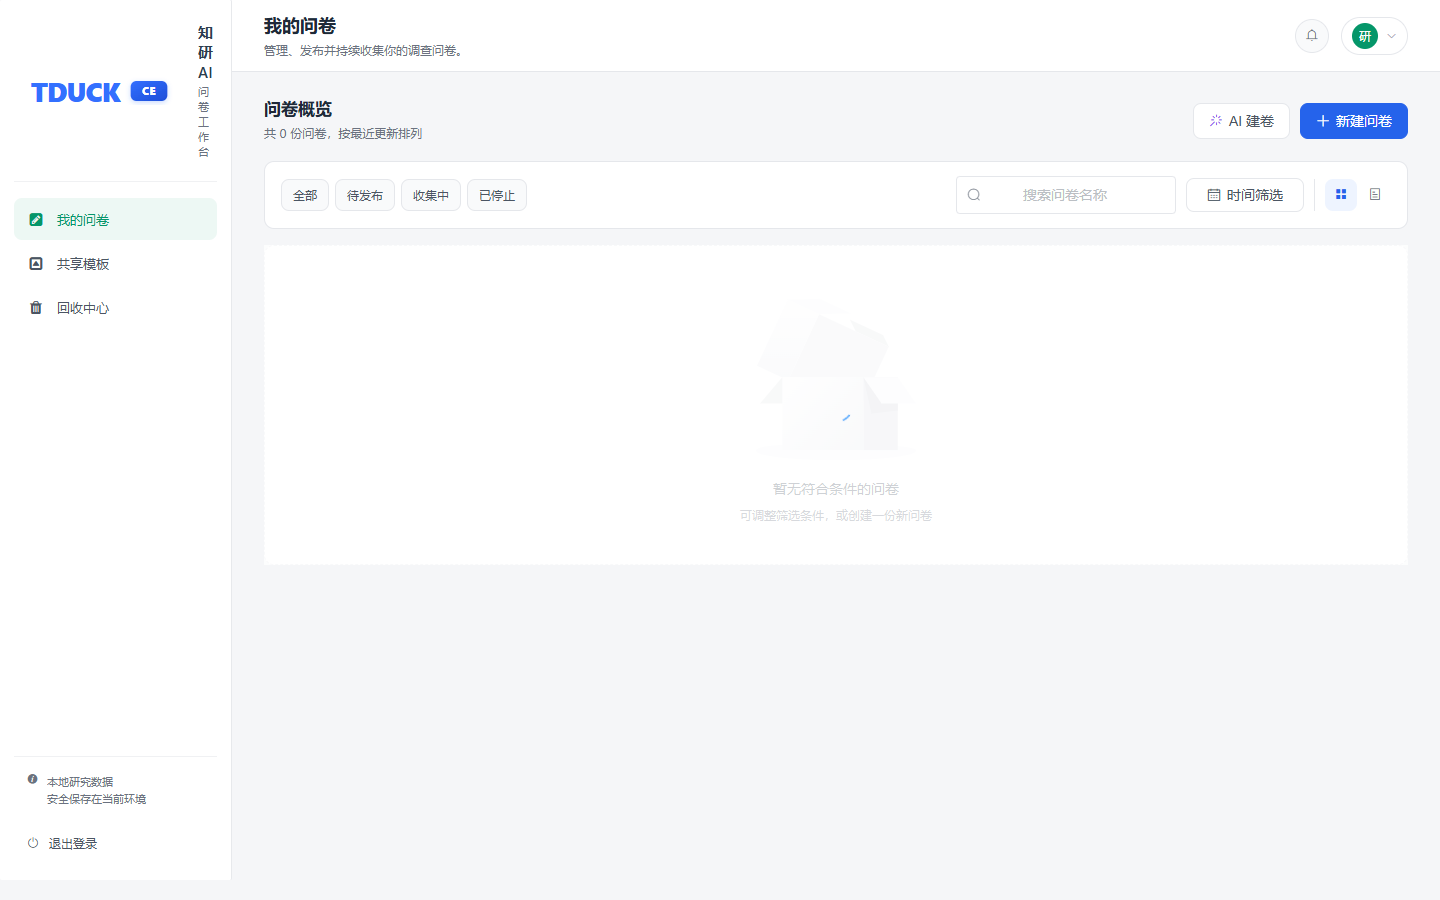
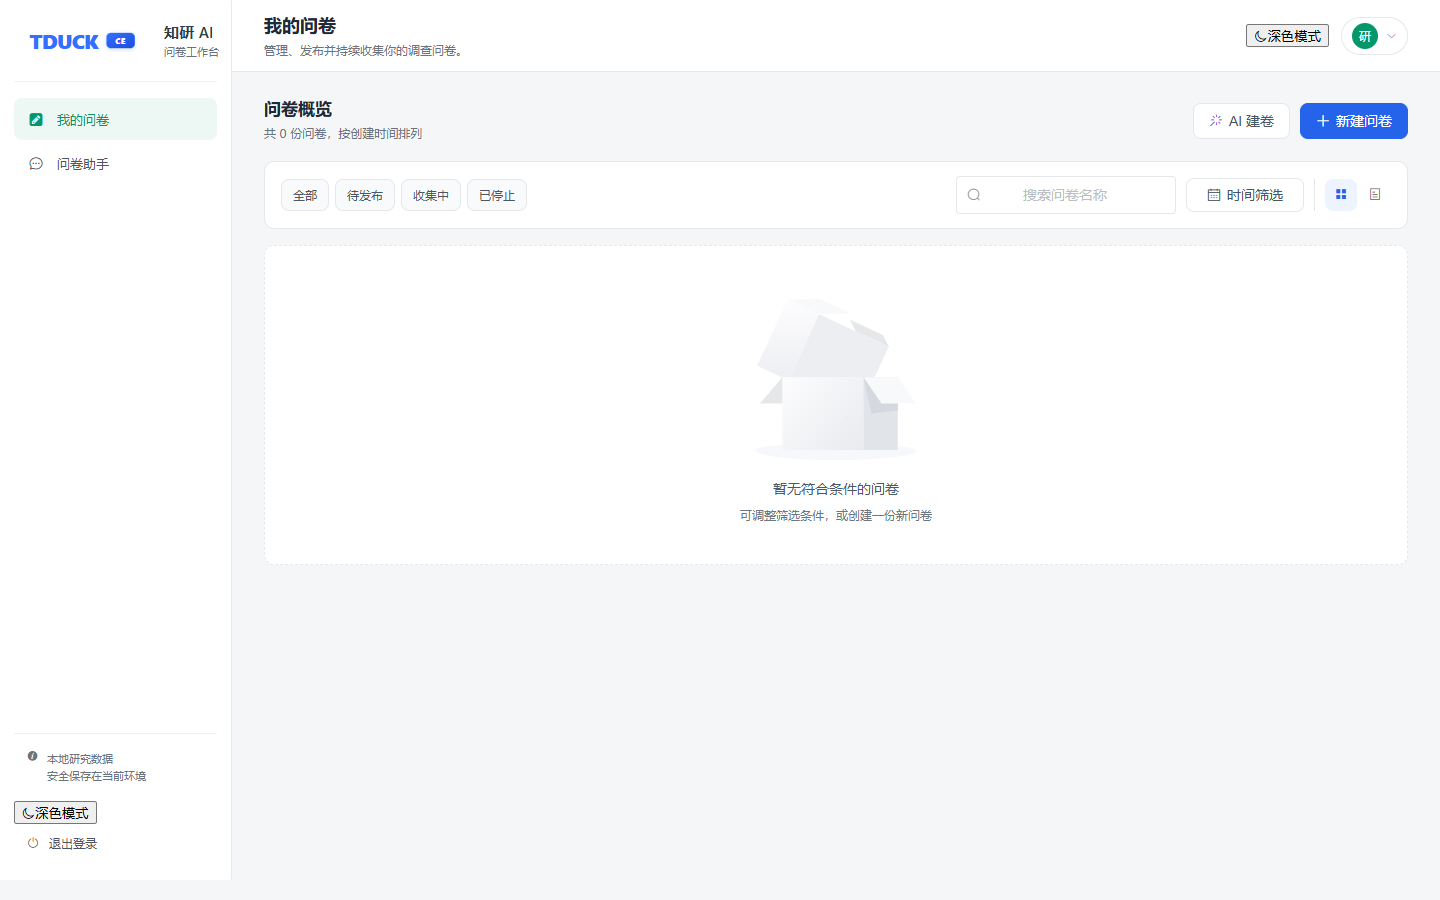
feat(tduck): add navy dark mode to survey workbench

diff --git a/tduck-vue3/src/td/assets/styles/workbench-dark.scss b/tduck-vue3/src/td/assets/styles/workbench-dark.scss
@@ -1,0 +1,143 @@
+// 藏蓝深色皮肤仅覆盖本轮已改造的明确容器，不修改其他页面或全局 Element Plus。
+.zy-dark {
+  body { background: var(--zy-page); }
+  .home-container .menu-box { background: #101c2e; }
+  .home-container .header-container { background: #111e31; }
+  .home-container .menu-item-active { color: var(--zy-accent) !important; background: #173137 !important; }
+  .home-container .menu-footer .theme-toggle-btn { color: #e6c76f; background: #252b35; border: 1px solid #343d4b; }
+  .home-container .logout-action-btn:hover { color: var(--zy-danger); background: #342633; }
+  .home-container .header-icon-btn { background: var(--zy-surface-subtle); }
+  .home-container .avatar-text { color: #a7f0d9; background: #164b48; }
+  .home-container .avatar-trigger-wrapper { background: var(--zy-surface-subtle); }
+  .home-logo-img { filter: brightness(0) invert(1); opacity: 0.9; }
+  .theme-toggle-btn {
+    display: flex;
+    gap: 10px;
+    align-items: center;
+    width: 100%;
+    min-height: 38px;
+    padding: 0 13px;
+    margin-bottom: 4px;
+    color: #e6c76f;
+    font-family: inherit;
+    font-size: 12px;
+    cursor: pointer;
+    background: #252b35;
+    border: 1px solid #343d4b;
+    border-radius: var(--zy-radius-sm);
+    &:hover { background: #2d3440; }
+  }
+  .header-theme-btn {
+    display: none;
+    gap: 6px;
+    align-items: center;
+    min-height: 32px;
+    padding: 0 9px;
+    color: #e6c76f;
+    font-family: inherit;
+    font-size: 11px;
+    cursor: pointer;
+    background: #252b35;
+    border: 1px solid #343d4b;
+    border-radius: var(--zy-radius-sm);
+  }
+  .project-page .status-filter-item,
+  .project-page .date-btn,
+  .project-page .view-switch,
+  .project-page .el-input__wrapper,
+  .project-page .el-input__inner,
+  .ai-draft-container .el-input__wrapper,
+  .ai-draft-container .el-input__inner,
+  .ai-draft-container .el-textarea__inner,
+  .ai-draft-container .el-input-number__decrease,
+  .ai-draft-container .el-input-number__increase {
+    color: var(--zy-text-regular);
+    background: var(--zy-surface-subtle);
+  }
+  .project-page .status-filter-item.active,
+  .project-page .date-btn.active,
+  .project-page .switch-btn.active { color: #9bbcff; background: #203758; border-color: #35547e; }
+  .project-page .ai-create-btn { background: #1b2a3d; }
+  .project-page .create-btn,
+  .ai-draft-container .el-button--primary { color: #eff5ff; background: #3c68d8; border-color: #537be2; }
+  .project-page .create-btn:hover,
+  .ai-draft-container .el-button--primary:hover { background: #4a75da; border-color: #6b8ee5; }
+  .project-page .el-input__inner,
+  .project-page .el-textarea__inner,
+  .ai-draft-container .el-input__inner,
+  .ai-draft-container .el-textarea__inner { color: var(--zy-text); background: transparent !important; }
+  .home-container .brand-copy strong { color: var(--zy-text) !important; }
+  .ai-draft-container .section-number { color: #c29af0; background: #342c49; }
+  .ai-draft-container .el-textarea__inner .el-input__count,
+  .ai-draft-container .el-input__count { color: var(--zy-text-secondary); background: transparent; }
+  .ai-draft-container .el-input-number__decrease,
+  .ai-draft-container .el-input-number__increase { border-color: var(--zy-border) !important; }
+  .home-container .brand-copy strong { color: var(--zy-text); }
+  .project-page .el-input__inner::placeholder,
+  .project-page .el-textarea__inner::placeholder,
+  .ai-draft-container .el-input__inner::placeholder,
+  .ai-draft-container .el-textarea__inner::placeholder { color: var(--zy-text-placeholder); }
+  .project-card-item { background: var(--zy-surface) !important; border-color: var(--zy-border) !important; }
+  .project-card-item .time-value { color: #88b9ee; }
+  .project-card-item .card-actions { background: #111e30; }
+  .project-card-item .el-button { background: #1b2b3f; }
+  .project-card-item .edit-action { color: #9bbcff; }
+  .project-card-item .form-type-badge { color: #a9c3fa; background: #203759; }
+  .project-card-item .form-type-badge.type-2 { color: #e5bb65; background: #3b3222; }
+  .project-card-item .form-type-badge.type-4 { color: #75dfbd; background: #193e3d; }
+  .ai-draft-container .actions .el-button:not(.el-button--primary) { background: #1b2a3ddd; }
+  .ai-draft-container .question-index { color: var(--zy-purple); }
+  .ai-draft-container .draft-metric { background: #111e30; }
+  .ai-draft-container .count-value { color: #88b9ee; }
+  .ai-draft-container .option-mark { border-color: #64748b; }
+  .form-index-container .form-editor-header { background: #111e31; }
+  .form-index-container .form-logo-img { filter: brightness(0) invert(1); opacity: 0.9; }
+  .form-index-container .back-btn { color: var(--zy-text-regular); }
+  .form-index-container .back-btn:hover { color: #9bbcff; background: #1b2a3d; }
+  .workbench-user-popover.el-popover,
+  .date-filter-popover.el-popover,
+  .create-form-dialog.el-dialog,
+  .draft-preview-dialog.el-dialog { color: var(--zy-text); background: var(--zy-surface); border-color: var(--zy-border); }
+  .workbench-user-popover.el-popover .el-popper__arrow::before,
+  .date-filter-popover.el-popover .el-popper__arrow::before { background: var(--zy-surface); border-color: var(--zy-border); }
+  .workbench-user-popover .nick-name { color: var(--zy-text); }
+  .workbench-user-popover .el-divider { background: var(--zy-border-light); }
+  .create-form-dialog .el-dialog__title,
+  .create-form-dialog .el-form-item__label,
+  .create-form-dialog .el-dialog__headerbtn,
+  .draft-preview-dialog .el-dialog__title,
+  .draft-preview-dialog .el-dialog__headerbtn { color: var(--zy-text); }
+  .create-form-dialog .el-input__wrapper,
+  .create-form-dialog .el-textarea__inner,
+  .date-filter-popover .el-input__wrapper { background: var(--zy-surface-subtle); }
+  .create-form-dialog .el-input__inner,
+  .create-form-dialog .el-textarea__inner,
+  .date-filter-popover .el-input__inner { color: var(--zy-text); }
+  .create-form-dialog .el-button:not(.el-button--primary),
+  .date-filter-popover .el-button:not(.el-button--primary) { color: var(--zy-text-regular); background: #1b2a3d; border-color: var(--zy-border); }
+  .create-form-dialog .el-button--primary,
+  .date-filter-popover .el-button--primary { color: #eff5ff; background: #3c68d8; border-color: #537be2; }
+  .project-page .el-pagination {
+    --el-pagination-bg-color: #142235;
+    --el-pagination-text-color: #b8c4d4;
+    --el-pagination-button-color: #b8c4d4;
+    --el-pagination-button-bg-color: #1b2a3d;
+    --el-pagination-button-disabled-bg-color: #111e30;
+    --el-pagination-hover-color: #9bbcff;
+  }
+  .project-page .el-select__wrapper,
+  .project-page .el-pagination .el-input__wrapper { color: var(--zy-text-regular); background: #1b2a3d; box-shadow: 0 0 0 1px var(--zy-border) inset; }
+  .ai-draft-container .el-tag--primary { --el-tag-bg-color: #203758; --el-tag-border-color: #35547e; --el-tag-text-color: #9bbcff; color: #9bbcff; background: #203758; border-color: #35547e; }
+  .ai-draft-container .el-tag--success { --el-tag-bg-color: #193e3d; --el-tag-border-color: #2b5b53; --el-tag-text-color: #75dfbd; color: #75dfbd; background: #193e3d; border-color: #2b5b53; }
+  .ai-draft-container .el-tag--warning { --el-tag-bg-color: #3b3222; --el-tag-border-color: #5b4a2b; --el-tag-text-color: #e5bb65; color: #e5bb65; background: #3b3222; border-color: #5b4a2b; }
+  .ai-draft-container .el-tag--info { --el-tag-bg-color: #253143; --el-tag-border-color: #354256; --el-tag-text-color: #b8c4d4; color: #b8c4d4; background: #253143; border-color: #354256; }
+  .ai-draft-container .section-heading h2 { color: var(--zy-text); }
+  .ai-draft-container .el-button--primary:not(.is-disabled) { color: #eff5ff !important; background: #3c68d8 !important; border-color: #537be2 !important; }
+  .ai-draft-container .el-collapse-item__header,
+  .ai-draft-container .el-collapse-item__content { color: var(--zy-text-regular); background: var(--zy-surface); }
+  .ai-draft-container .el-alert--warning.is-light { --el-alert-bg-color: #332b20; color: #e5bb65; }
+  .ai-draft-container .draft-answer-preview { color: #202938; background: #fff; padding: 16px; border-radius: 8px; }
+}
+@media (max-width: 767px) {
+  .zy-dark .header-theme-btn { display: inline-flex; }
+}

diff --git a/tduck-vue3/src/td/views/home/index.vue b/tduck-vue3/src/td/views/home/index.vue
@@ -27,6 +27,10 @@
             <i class="el-icon-info" />
             <span>本地研究数据<br />安全保存在当前环境</span>
           </div>
+          <button class="theme-toggle-btn" :aria-label="isDark ? '切换浅色模式' : '切换深色模式'" @click="toggleTheme">
+            <i :class="isDark ? 'el-icon-sunny' : 'el-icon-moon'" />
+            <span>{{ isDark ? '浅色模式' : '深色模式' }}</span>
+          </button>
           <button class="logout-action-btn" @click="logoutHandle">
             <i class="el-icon-switch-button" />
             <span>退出登录</span>
@@ -41,6 +45,10 @@
             <p>{{ headerSubtitle }}</p>
           </div>
           <div class="right-header">
+            <button class="header-theme-btn" :aria-label="isDark ? '切换浅色模式' : '切换深色模式'" @click="toggleTheme">
+              <i :class="isDark ? 'el-icon-sunny' : 'el-icon-moon'" />
+              <span>{{ isDark ? '浅色模式' : '深色模式' }}</span>
+            </button>
             <el-popover placement="bottom-end" trigger="click" width="220" popper-class="workbench-user-popover">
               <div class="user-person-menu">
                 <div v-if="getUserInfo" class="user-profile-summary">
@@ -83,12 +91,14 @@
 <script>
 import store from '@/store'
 import router from '@/router'
+import { toggleWorkbenchTheme } from '@/utils/workbenchTheme'
 
 export default {
   name: 'NewIndex',
   components: {},
   data() {
     return {
+      isDark: document.documentElement.classList.contains('zy-dark'),
       defaultActiveMenu: '/home',
       menuList: [
         { route: '/home', name: '我的问卷', icon: 'fa-pencil-square' },
@@ -136,6 +146,9 @@ export default {
     }
   },
   methods: {
+    toggleTheme() {
+      this.isDark = toggleWorkbenchTheme()
+    },
     menuClickHandle(menu) {
       this.$router.replace({ path: menu.route })
     },

diff --git a/tduck-vue3/src/td/views/form/index.vue b/tduck-vue3/src/td/views/form/index.vue
@@ -11,6 +11,11 @@
           <span v-if="isAiDraft" class="ai-header-title">知研 AI</span>
         </div>
       </div>
+      <div v-if="isAiDraft" class="header-right">
+        <el-button class="ai-theme-toggle" @click="toggleTheme" :aria-label="isDark ? '切换浅色模式' : '切换深色模式'">
+          <i :class="isDark ? 'el-icon-sunny' : 'el-icon-moon'" />{{ isDark ? '浅色模式' : '深色模式' }}
+        </el-button>
+      </div>
       <div v-if="!isAiDraft" class="header-right">
         <el-button
           round
@@ -61,12 +66,14 @@
 
 <script>
 import PreView from '@/views/form/preview'
+import { toggleWorkbenchTheme } from '@/utils/workbenchTheme'
 
 export default {
   name: 'NewIndex',
   components: { PreView },
   data() {
     return {
+      isDark: document.documentElement.classList.contains('zy-dark'),
       previewKey: +new Date(),
       previewDialogVisible: false,
       defaultActiveMenu: 'editor',
@@ -120,6 +127,9 @@ export default {
     }
   },
   methods: {
+    toggleTheme() {
+      this.isDark = toggleWorkbenchTheme()
+    },
     menuSelectHandle(index) {
       this.defaultActiveMenu = index
       this.$router.replace({ path: index, query: { key: this.projectKey } })
@@ -212,6 +222,14 @@ export default {
     display: flex;
     align-items: center;
     gap: 12px;
+
+    .ai-theme-toggle {
+      color: var(--zy-text-regular);
+      background: var(--zy-surface-subtle);
+      border: 1px solid var(--zy-border);
+      border-radius: var(--zy-radius-sm);
+    }
+    .ai-theme-toggle i { margin-right: 6px; }
 
     .action-btn {
       border-radius: 8px;

diff --git a/tduck-vue3/src/td/utils/workbenchTheme.js b/tduck-vue3/src/td/utils/workbenchTheme.js
@@ -1,0 +1,33 @@
+const STORAGE_KEY = 'zhiyan-workbench-theme'
+const DARK_CLASS = 'zy-dark'
+
+export function applyWorkbenchTheme(theme) {
+  const dark = theme === 'dark'
+  document.documentElement.classList.toggle(DARK_CLASS, dark)
+  document.documentElement.style.colorScheme = dark ? 'dark' : 'light'
+  return dark
+}
+
+export function initializeWorkbenchTheme() {
+  let saved = null
+  try {
+    saved = localStorage.getItem(STORAGE_KEY)
+  } catch (e) {
+    // Storage is optional; the theme remains usable for the current page.
+  }
+  const theme = saved === 'dark' || saved === 'light'
+    ? saved
+    : window.matchMedia?.('(prefers-color-scheme: dark)').matches ? 'dark' : 'light'
+  return applyWorkbenchTheme(theme)
+}
+
+export function toggleWorkbenchTheme() {
+  const dark = !document.documentElement.classList.contains(DARK_CLASS)
+  applyWorkbenchTheme(dark ? 'dark' : 'light')
+  try {
+    localStorage.setItem(STORAGE_KEY, dark ? 'dark' : 'light')
+  } catch (e) {
+    // Do not block the theme switch when browser storage is unavailable.
+  }
+  return dark
+}

diff --git a/tduck-vue3/src/td/assets/styles/workbench.scss b/tduck-vue3/src/td/assets/styles/workbench.scss
@@ -31,3 +31,25 @@
   --zy-font-family: Inter, ui-sans-serif, system-ui, -apple-system, BlinkMacSystemFont, 'PingFang SC', 'Microsoft YaHei', 'Segoe UI', sans-serif;
   --zy-font-number: Inter, 'SF Pro Text', system-ui, sans-serif;
 }
+
+// 深色模式仅应用于本轮改造的工作台与 AI 建卷容器，避免污染其他页面。
+.zy-dark {
+  --zy-primary: #88b0ff;
+  --zy-primary-hover: #abc6ff;
+  --zy-primary-soft: #203758;
+  --zy-accent: #4bd6b1;
+  --zy-text: #edf2f8;
+  --zy-text-regular: #b8c4d4;
+  --zy-text-secondary: #8391a5;
+  --zy-text-placeholder: #67758a;
+  --zy-border: #26374b;
+  --zy-border-light: #223246;
+  --zy-page: #0c1829;
+  --zy-surface: #142235;
+  --zy-surface-subtle: #111e30;
+  --zy-success: #5ed9ae;
+  --zy-warning: #e5bb65;
+  --zy-danger: #e78a95;
+  --zy-purple: #c29af0;
+  --zy-shadow-popup: 0 10px 30px rgba(0, 0, 0, 0.3);
+}

diff --git a/tduck-vue3/src/td/main.js b/tduck-vue3/src/td/main.js
@@ -19,6 +19,8 @@ import VxeTable from 'vxe-table'
 import VxeUI from 'vxe-pc-ui'
 import 'vxe-pc-ui/lib/style.css'
 import 'vxe-table/lib/style.css'
+import {initializeWorkbenchTheme} from './utils/workbenchTheme'
+initializeWorkbenchTheme()
 const app=createApp(App)
 app.use(pinia).use(router).use(ElementPlus,{locale:zhCn,zIndex:3000}).use(VxeUI).use(VxeTable)
 Object.assign(app.config.globalProperties,{$api:api,$store:store,$dayjs:dayjs,$cookies:Cookies,$message:ElMessage,$confirm:ElMessageBox.confirm,$prompt:ElMessageBox.prompt,$alert:ElMessageBox.alert,$notify:ElNotification,$process:Process,parseTime,resetForm,download,

diff --git a/tduck-vue3/src/td/assets/styles/index.scss b/tduck-vue3/src/td/assets/styles/index.scss
@@ -1,5 +1,6 @@
 @import './variables.scss';
 @import './workbench.scss';
+@import './workbench-dark.scss';
 @import './element-custom.scss';
 @import './mixin.scss';
 @import './transition.scss';

diff --git a/evidence/tduck-full/UI_REFRESH.md b/evidence/tduck-full/UI_REFRESH.md
@@ -49,3 +49,34 @@
 - 构建输出仍提示 Sass `@import` 未来弃用和主 chunk 超 1MB；这是既有前端结构警告，不影响本轮功能。
 - 本轮生成内容用于 UI 证据的 AI 响应为 `fixture-no-model-call` 合成响应；真实模型本轮未额外计费调用。
 - 8997 后端在首次回归前意外退出，已按 `scripts/tduck/Start-FullBackend.ps1 -Background` 原配置恢复并完成全部验证。
+
+## 藏蓝深色模式补充（2026-10-25）
+
+新增文件：
+
+- `tduck-vue3/src/td/utils/workbenchTheme.js`：初始化浅色/深色主题，按用户选择保存至本机 localStorage；不可用时只影响持久化，不阻塞切换。
+- `tduck-vue3/src/td/assets/styles/workbench-dark.scss`：藏蓝深色变量对应的局部组件样式，仅覆盖本轮工作台与 AI 建卷范围。
+- `scripts/tduck/workbench-dark-mode.mjs`：主题持久化、真实计算样式、AI 表单、预览及 390px 回归。
+
+变更：`main.js` 初始化主题；`workbench.scss` 增加深色令牌；`index.scss` 引入深色皮肤；工作台侧栏/手机顶部和 AI 建卷右上角新增切换按钮。AI 答题预览保留原有白色问卷阅读面，不改动公共问卷组件。
+
+验证：
+
+- `node scripts/tduck/workbench-dark-mode.mjs`：7/7 通过。包含浅色默认、深色刷新保持、卡片与导航实际背景色、输入值、AI 生成、预览、手机无横向溢出。
+- `node scripts/tduck/m2-usability.mjs`：10/10 通过，真实后端闭环未受主题影响。
+- `node scripts/tduck/m2-import-recovery.mjs`：10/10 通过。
+- `node scripts/tduck/m2-slow-request.mjs`：通过，32.7 秒受控响应。
+- `node scripts/tduck/capture-ui-refresh.mjs`：5/5 浅色回归通过。
+- `npm.cmd --prefix D:/LcProject/tduck-vue3 run build`：通过；保留既有 Sass 与 chunk 警告。
+- `node scripts/tduck/credential-scan.mjs`：3/3 通过，本轮无凭据泄漏。
+
+深色截图：
+
+- `evidence/tduck-full/dark-mode/01-home-dark-desktop.png`
+- `evidence/tduck-full/dark-mode/02-ai-dark-form-desktop.png`
+- `evidence/tduck-full/dark-mode/03-ai-dark-draft-desktop.png`
+- `evidence/tduck-full/dark-mode/04-ai-dark-preview-desktop.png`
+- `evidence/tduck-full/dark-mode/05-home-dark-mobile.png`
+- `evidence/tduck-full/dark-mode/06-ai-dark-mobile.png`
+
+边界：本轮未给编辑器、统计页和其他页面统一换肤；深色模式只覆盖本轮改造范围。测试 AI 响应为合成 fixture，不是实际模型调用。
